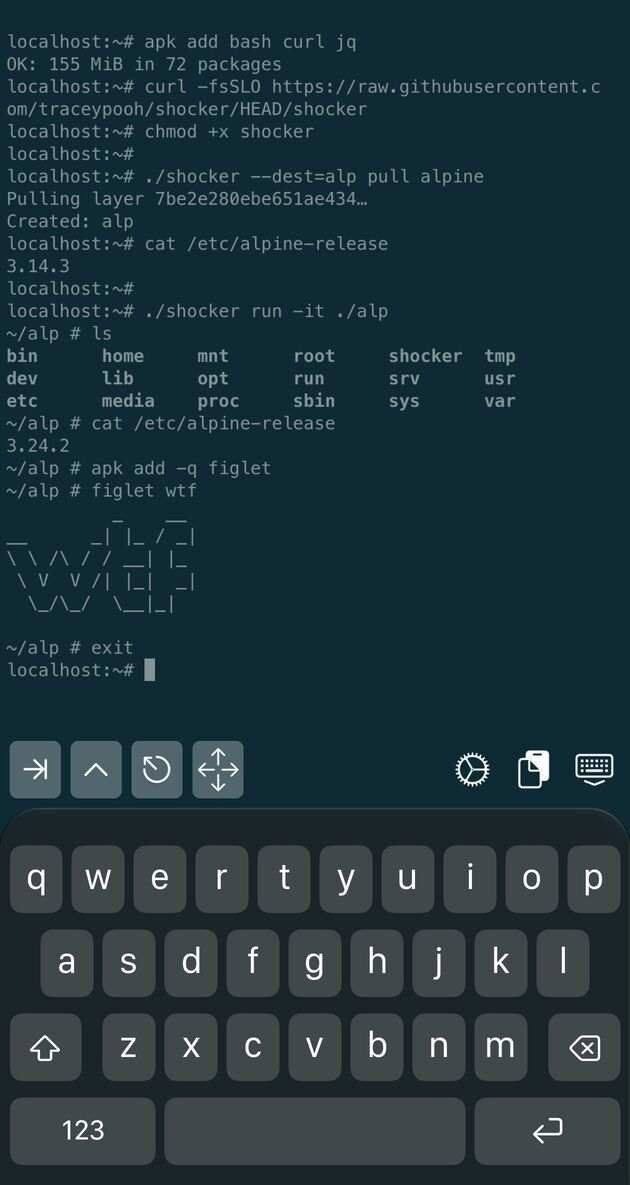
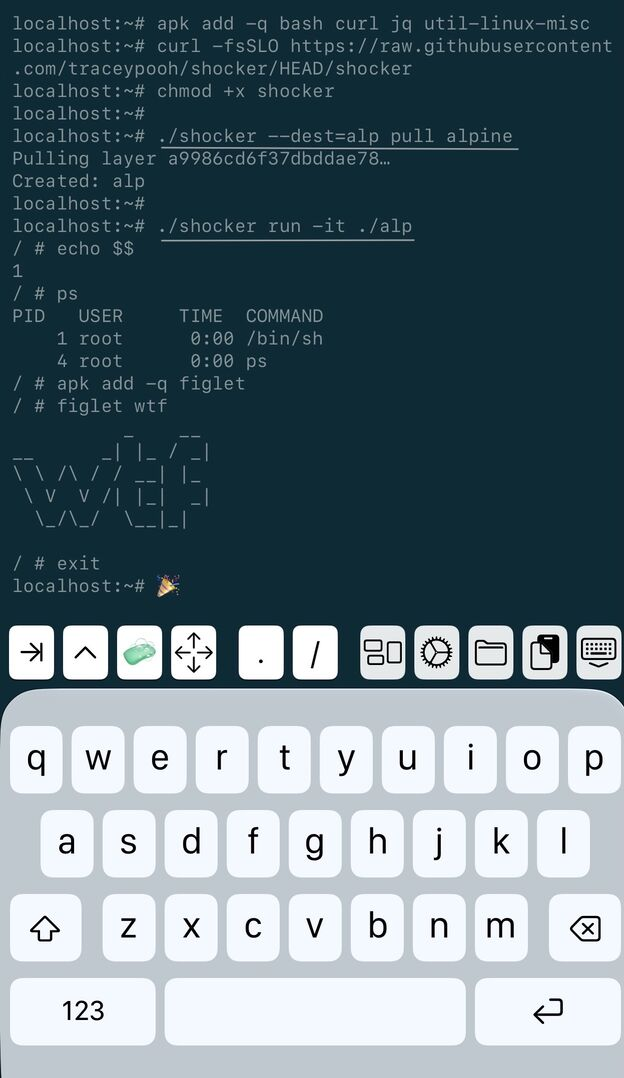
iSH-AOK is way better, updated demo to it

diff --git a/README.md b/README.md
@@ -473,46 +473,33 @@ Yes, really: **containers on a phone** 📱🧟.
 Two Alpine Linux shell apps for iPhone/iPad work.  Neither has btrfs, cgroups, or bridge networking —
 but the [lite run](#pull--run-no-btrfsoverlay-required) above works on both:
 
-- **[iSH-AOK](https://github.com/emkey1/ish-AOK)** (suggested) — a fork of iSH, installed via TestFlight (easy to set up).
-  Modern Alpine, multiple archs (eg: `aarch64` => pulls `linux/arm64` images), much faster, and **real namespaces**:
-  after `apk add util-linux-misc`, `shocker run` gets its own PID namespace (`echo $$` => `1`, `ps` shows only itself)
-  and hostname.
+- **[iSH-AOK](https://github.com/emkey1/ish-AOK)** (suggested) — a fork of `iSH`, installed via `TestFlight` (easy to set up).
+  Modern Alpine, multiple archs (eg: `aarch64` => pulls `linux/arm64` images), much faster, and **real namespaces** (PID, hostname) using `unshare`.
+
 - **[iSH](https://ish.app)** — on the App Store, but locked to an older, unsupported Alpine version.
   Emulated 32-bit x86 (`i686` => pulls `linux/386` images).  No `unshare` syscall, so it's a plain `chroot`
   (no PID isolation — `ps` shows the phone's processes).
 
+
+### iSH-AOK app on iPhone example run:
 ```sh
-apk add bash curl jq
-apk add util-linux-misc          # iSH-AOK only: real `unshare` => namespaces
-
-shocker --dest=alp pull alpine   # pulls the image matching `uname -m`
-shocker run -it ./alp
-
-# inside: networking & apk work
-wget -qO- https://example.com | head -3
-apk add figlet
-```
-
-Notes:
-- pull into the app's own filesystem (eg: `/root`, `/tmp`) — **not** a dir mounted from another iOS app (`mount -t ios`). Those can't hold symlinks or ownership, so nearly everything in the image (`/bin/sh` => `/bin/busybox`, etc.) breaks.
-- `apk add util-linux-misc`, not busybox's `unshare` — shocker's `unshare` probe needs the util-linux one.
-
-
-### iSH app on iPhone example run (plain iSH, shown here):
-```sh
-apk add bash curl jq
+apk add -q bash curl jq util-linux-misc
 curl -fsSLO https://raw.githubusercontent.com/traceypooh/shocker/HEAD/shocker
 chmod +x shocker
 
 ./shocker --dest=alp pull alpine
 
-cat /etc/alpine-release
 ./shocker run -it ./alp
-ls
-cat /etc/alpine-release
+echo $$                   # 1 - we're PID 1 - overall parent process of our own little world
+ps                        # just sh + ps - can't see outside
 apk add -q figlet
 figlet wtf
 exit
 ```
 
 ![shocker on iOS demo screenshot showing pull and run](shocker-ios.jpg)
+
+
+Notes:
+- `pull` into the app's own filesystem (eg: `/root`, `/tmp`) — **not** a dir mounted from another iOS app (`mount -t ios`). Those can't hold symlinks or ownership, so nearly everything in the image (`/bin/sh` => `/bin/busybox`, etc.) breaks.
+- shocker's `unshare` probe needs alpine util-linux-misc's `unshare`, not busybox's.
